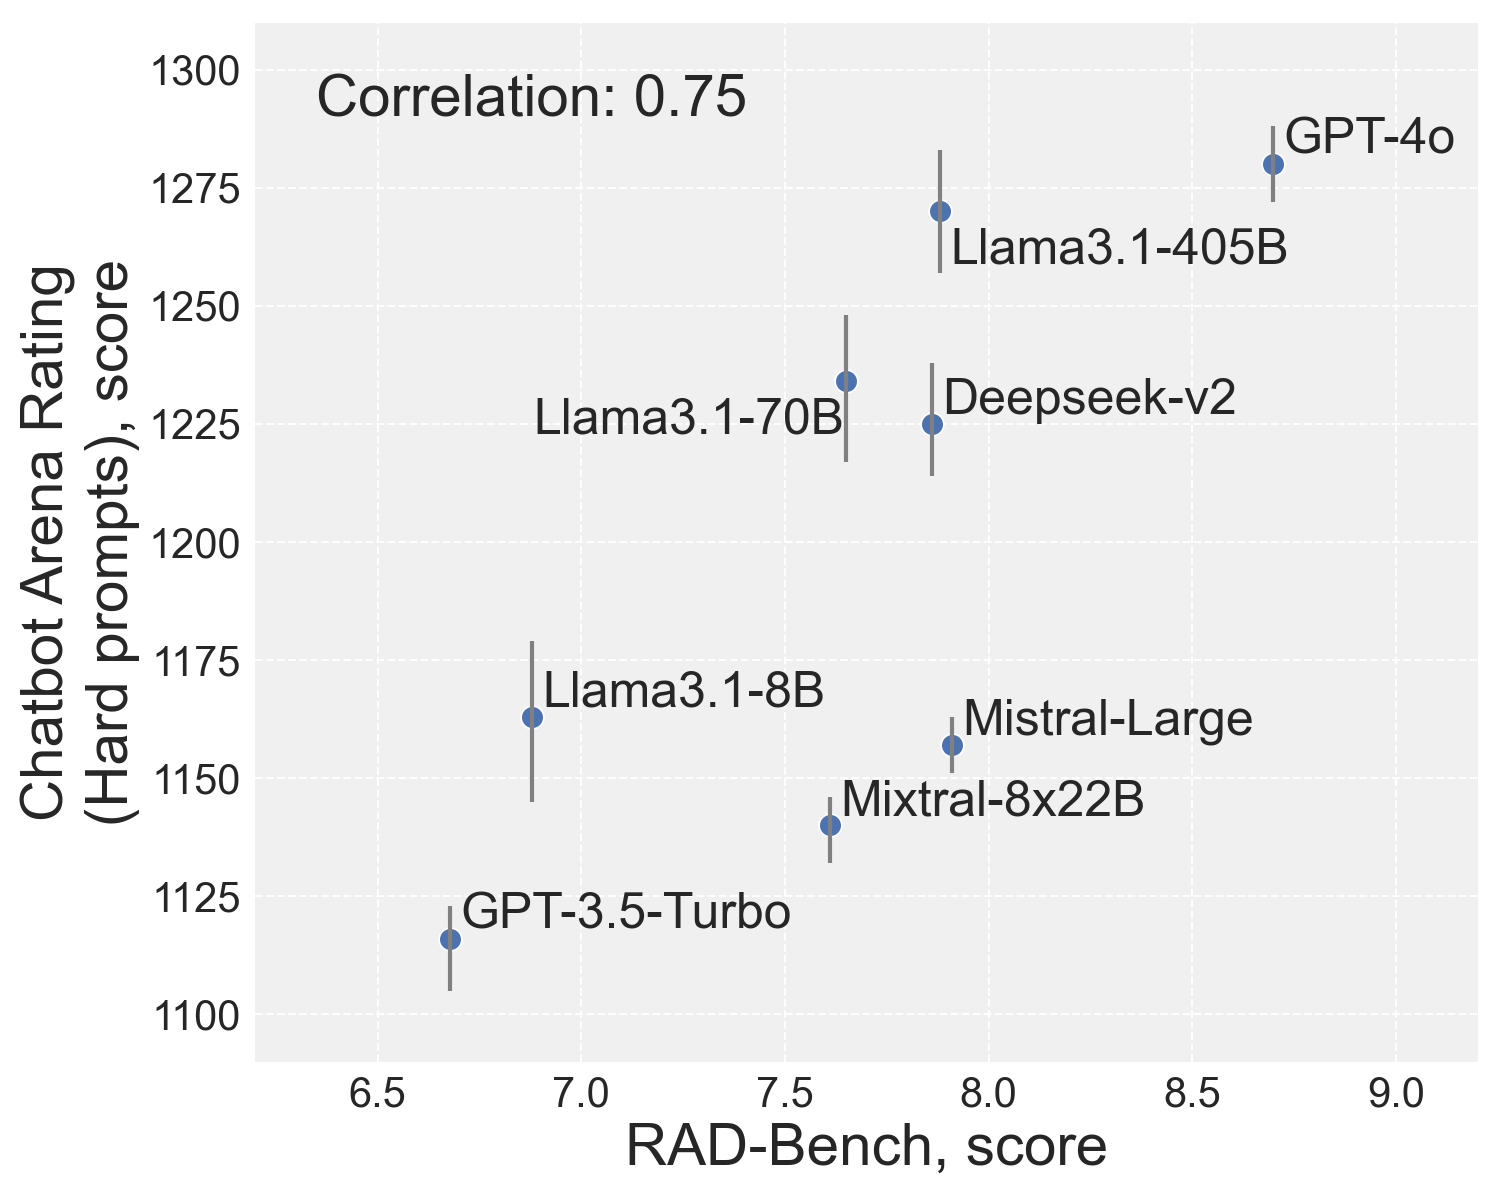
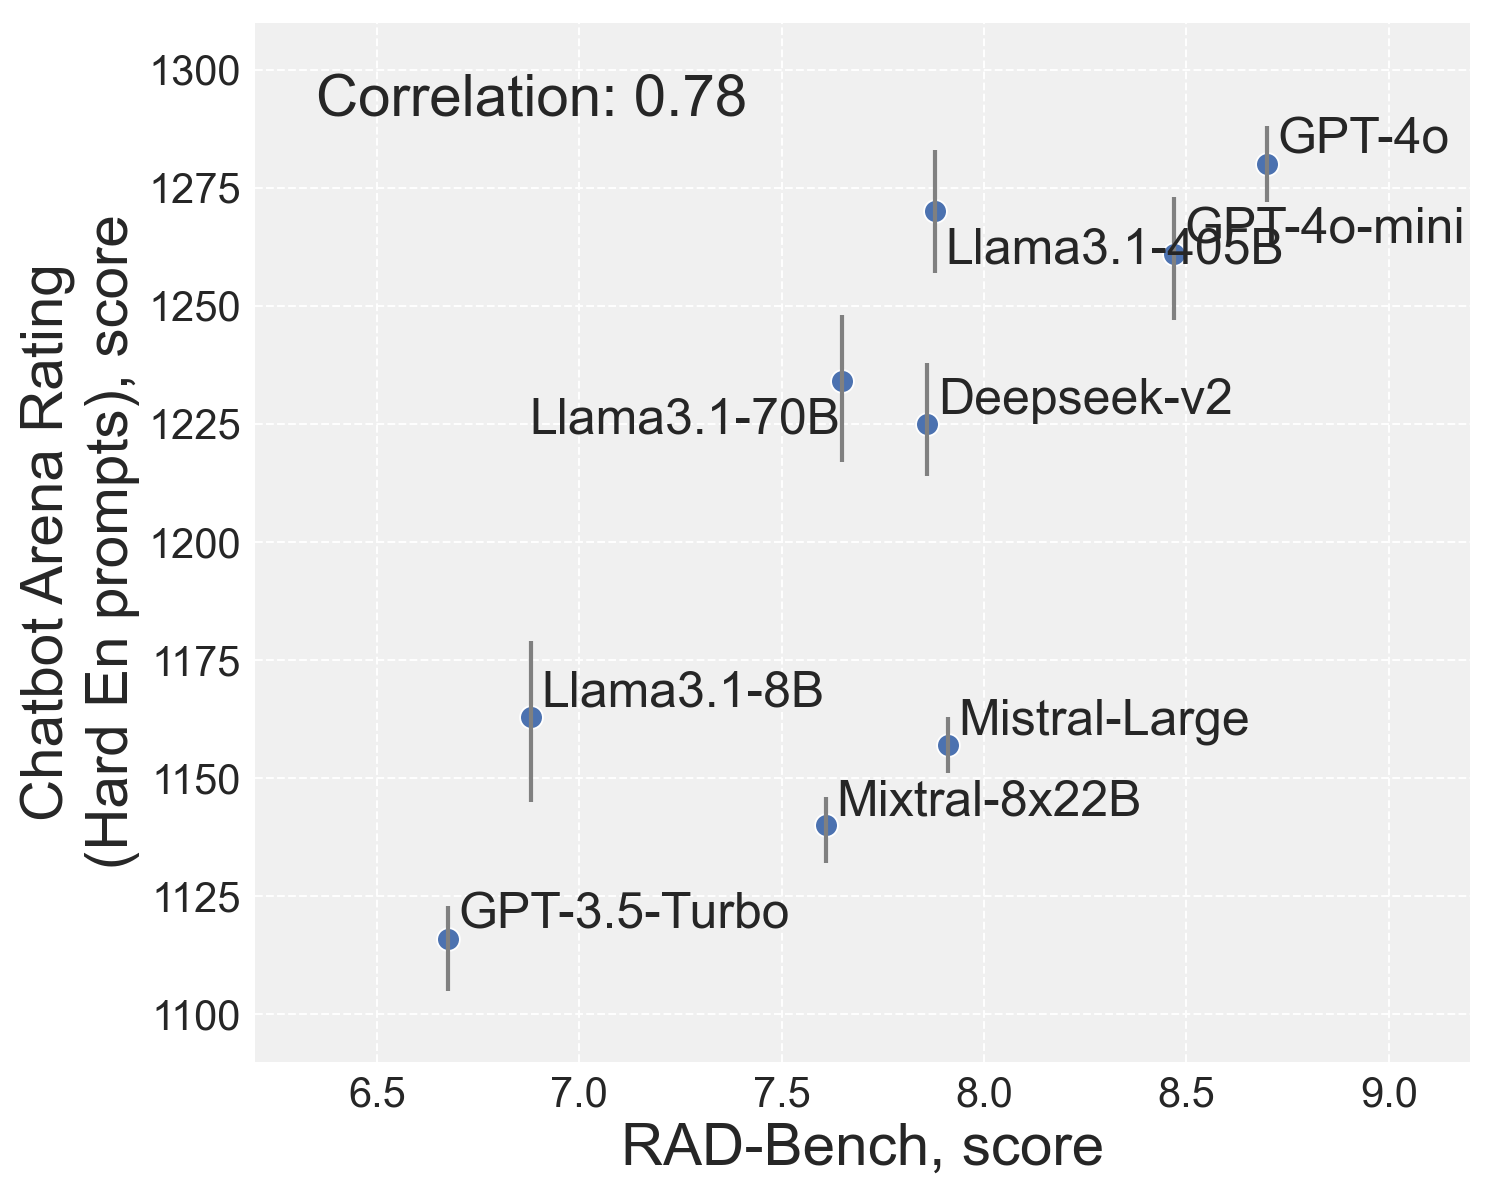
Update results

diff --git a/magic/scripts/get_spearman_correlation.py b/magic/scripts/get_spearman_correlation.py
@@ -144,7 +144,9 @@ def plot_corr_plot(chat_arena_category="hard-all"):
     x_key = "average"
     y_key = chat_arena_category
     x_label = "RAD-Bench, score"
-    y_label = "Chatbot Arena Rating\n(Hard prompts), score"
+    cat_to_label={"all": "All prompts", "multi-turn": "Multi-turn prompts", "hard-all": "Hard prompts", "hard-en": "Hard En prompts", "long-query": "Long-query prompts"}
+    cat_label=cat_to_label[chat_arena_category]
+    y_label = f"Chatbot Arena Rating\n({cat_label}), score"
     title = 'Scatter Plot: Hard-All vs Average'
     # fontfamily = "Times New Roman"
     fontfamily = "Sans-serif" # "Serif" # "Helvetica"

diff --git a/magic/scripts/plot_radar_plot.py b/magic/scripts/plot_radar_plot.py
@@ -11,7 +11,7 @@ from cycler import cycler
 
 _CUR_DIR=os.path.dirname(os.path.abspath(__file__))
 
-_exclude_models = ["Llama3-8B", "Llama3-70B", "Gemma-2-27B", "Gemma-2-9B"]
+_exclude_models = ["Llama3-8B", "Llama3-70B", "Gemma-2-27B", "Gemma-2-9B", "GPT-3.5-Turbo"]
 
 _model_name_map = {
     "gpt-4o": "GPT-4o",
